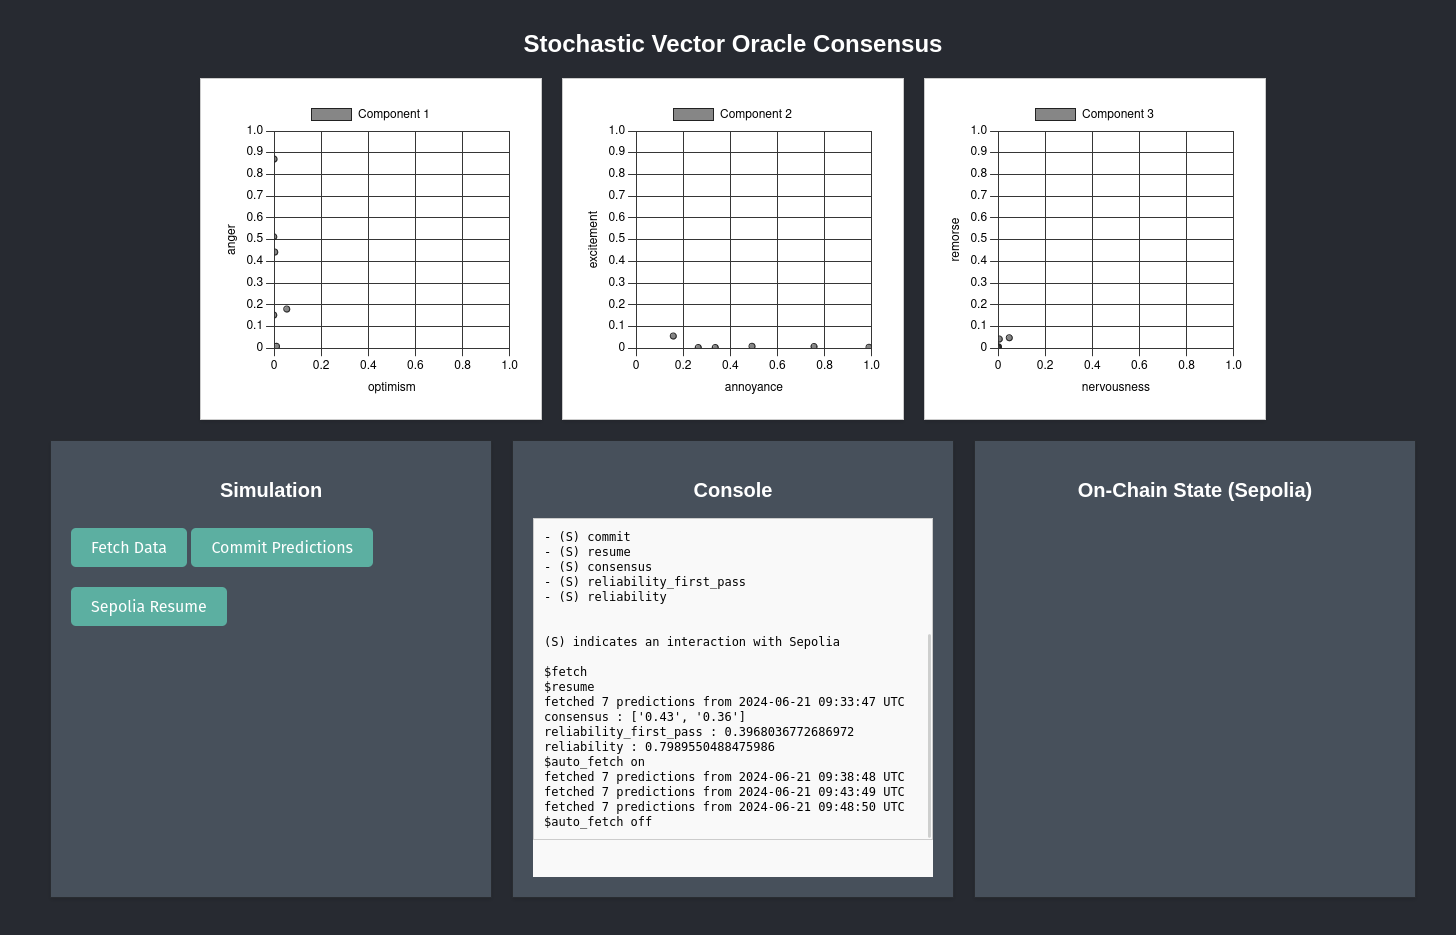
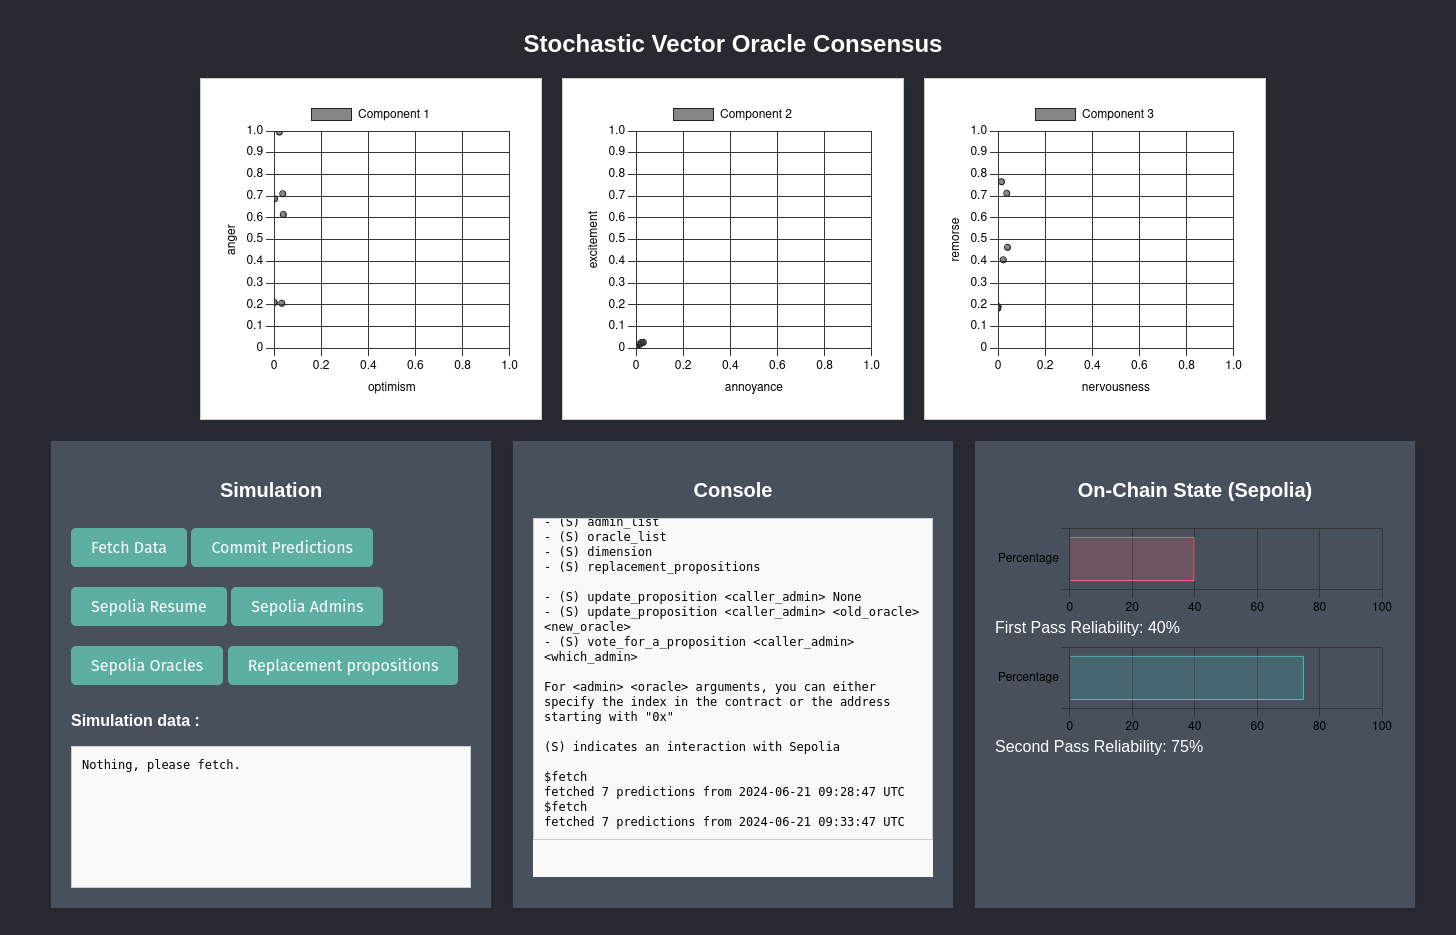
wip client

diff --git a/oracle_client/web/scripts/sepolia_graphics.js b/oracle_client/web/scripts/sepolia_graphics.js
@@ -1,0 +1,76 @@
+// scripts/graphics.js
+let sepolia_charts = [];
+
+function initializeProgressBars() {
+    const ids = ['progress-bar-1', 'progress-bar-2']; //, 'progress-bar-3'];
+    const textIds = ['progress-text-1', 'progress-text-2']; //, 'progress-text-3'];
+    const percentages = [0, 0]; //, 0];
+
+    ids.forEach((id, index) => {
+        const ctx = document.getElementById(id).getContext('2d');
+        const progressText = document.getElementById(textIds[index]);
+        progressText.innerText = `Progress: ${percentages[index]}%`;
+
+        const data = {
+            labels: ['Percentage'],
+            datasets: [{
+                label: 'Completion',
+                data: [percentages[index]],
+                backgroundColor: percentages[index] < 50 ? 'rgba(255, 99, 132, 0.2)' : 'rgba(75, 192, 192, 0.2)',
+                borderColor: percentages[index] < 50 ? 'rgba(255, 99, 132, 1)' : 'rgba(75, 192, 192, 1)',
+                borderWidth: 1
+            }]
+        };
+
+        const options = {
+            indexAxis: 'y',
+            scales: {
+                x: {
+                    max: 100,
+                    beginAtZero: true
+                }
+            },
+            plugins: {
+                legend: {
+                    display: false
+                },
+                tooltip: {
+                    enabled: false
+                }
+            }
+        };
+
+        const chart = new Chart(ctx, {
+            type: 'bar',
+            data: data,
+            options: options
+        });
+
+        sepolia_charts.push(chart);
+    });
+}
+
+function updateProgressBar(index, percentage) {
+    const labels = ["First Pass Reliability", "Second Pass Reliability", "?"]
+
+    if (index < 0 || index >= sepolia_charts.length) {
+        console.error('Invalid index for progress bar');
+        return;
+    }
+    const chart = sepolia_charts[index];
+    const textId = `progress-text-${index + 1}`;
+    const progressText = document.getElementById(textId);
+
+    chart.data.datasets[0].data[0] = percentage;
+    chart.data.datasets[0].backgroundColor = percentage < 50 ? 'rgba(255, 99, 132, 0.2)' : 'rgba(75, 192, 192, 0.2)';
+    chart.data.datasets[0].borderColor = percentage < 50 ? 'rgba(255, 99, 132, 1)' : 'rgba(75, 192, 192, 1)';
+    progressText.innerText = `${labels[index]}: ${percentage}%`;
+    chart.update();
+}
+
+document.addEventListener('DOMContentLoaded', function() {
+    initializeProgressBars();
+    updateProgressBar(0, 40);
+    updateProgressBar(1, 75);
+    // updateProgressBar(2, 30);
+});

diff --git a/oracle_client/web/index.html b/oracle_client/web/index.html
@@ -26,11 +26,19 @@
             <!-- <button class="btn" onclick="">Enable Auto-Commit</button> -->
             <button class="btn" onclick="query('commit')">Commit Predictions</button>
             <button class="btn" onclick="query('resume')">Sepolia Resume</button>
+            <button class="btn" onclick="query('admin_list')">Sepolia Admins</button>
+            <button class="btn" onclick="query('oracle_list')">Sepolia Oracles</button>
+            <button class="btn" onclick="query('replacement_propositions')">Replacement propositions</button>
+            
+            <h3>Simulation data :</h3>
+            <div id="simulation-output" class="console-short">
+                Nothing, please fetch.
+            </div>
         </div>
 
         <div class="bot-container">
             <h2>Console</h2>
-            <div id="console-output">
+            <div id="console-output" class="console">
                 
             </div>
             <input id="console-input" type="text" autofocus>
@@ -38,12 +46,20 @@
 
         <div class="bot-container">
             <h2>On-Chain State (Sepolia)</h2>
+
+            <canvas id="progress-bar-1" width="400" height="100"></canvas>
+            <div id="progress-text-1"></div>
+            <canvas id="progress-bar-2" width="400" height="100"></canvas>
+            <div id="progress-text-2"></div>
+            <!-- <canvas id="progress-bar-3" width="400" height="100"></canvas>
+            <div id="progress-text-3"></div> -->
         </div>
     </div>
 
     <script type="text/javascript" src="/eel.js"></script>
     <script src="https://cdn.jsdelivr.net/npm/chart.js"></script>
     <script src="scripts/main.js"></script>
-    <script src="scripts/graphics.js"></script>
+    <script src="scripts/sepolia_graphics.js"></script>
+    <script src="scripts/simulation_graphics.js"></script>
 </body>
 </html>

diff --git a/oracle_client/web/scripts/simulation_graphics.js b/oracle_client/web/scripts/simulation_graphics.js
@@ -1,4 +1,4 @@
-let chartInstances = []; // Array to hold Chart instances
+let simulation_charts = []; // Array to hold Chart instances
 
 Chart.defaults.borderColor = '#363636';
 Chart.defaults.color = '#000';
@@ -6,7 +6,7 @@ Chart.defaults.color = '#000';
 initComponents(3);
 
 function initComponents(dimension) {
-    chartInstances = [];
+    simulation_charts = [];
     const container = document.getElementById('plots-container');
     container.innerHTML = ''; 
 
@@ -61,7 +61,7 @@ function initComponents(dimension) {
             }
         });
 
-        chartInstances.push(chart); // Store each chart instance
+        simulation_charts.push(chart); // Store each chart instance
     }
 }
 
@@ -70,7 +70,7 @@ eel.expose(initComponents)
 
 function updateComponents(components) {
     components.forEach((component, index) => {
-        const chart = chartInstances[index];
+        const chart = simulation_charts[index];
         chart.data.datasets[0].label = `Component ${index + 1}`;
         chart.data.datasets[0].data = component.data;
         chart.options.scales.x.title.text = component.columnNames[0];

diff --git a/oracle_client/web/styles.css b/oracle_client/web/styles.css
@@ -60,13 +60,27 @@ canvas {
     text-align: center;
 }
 
-#console-output {
+.bot-container h3 {
+    font-size: 16px;
+    color: #fff;
+    /* text-align: center; */
+}
+
+.console, .console-short {
     border: 1px solid #ccc;
-    padding: 10px;
-    height: 300px;
-    overflow-y: auto;
     background-color: #f9f9f9;
     font-family: monospace;
+    padding: 10px;
+}
+
+.console {
+    height: 300px;
+    overflow-y: auto;
+}
+
+.console-short {
+    height: 120px;
+    overflow-y: auto;
 }
 
 #console-input {
@@ -92,4 +106,8 @@ canvas {
 
 .btn:hover {
     background-color: #366d7a;
+}
+
+#progress-text-1, #progress-text-2, #progress-text-3 {
+    color: white;
 }
